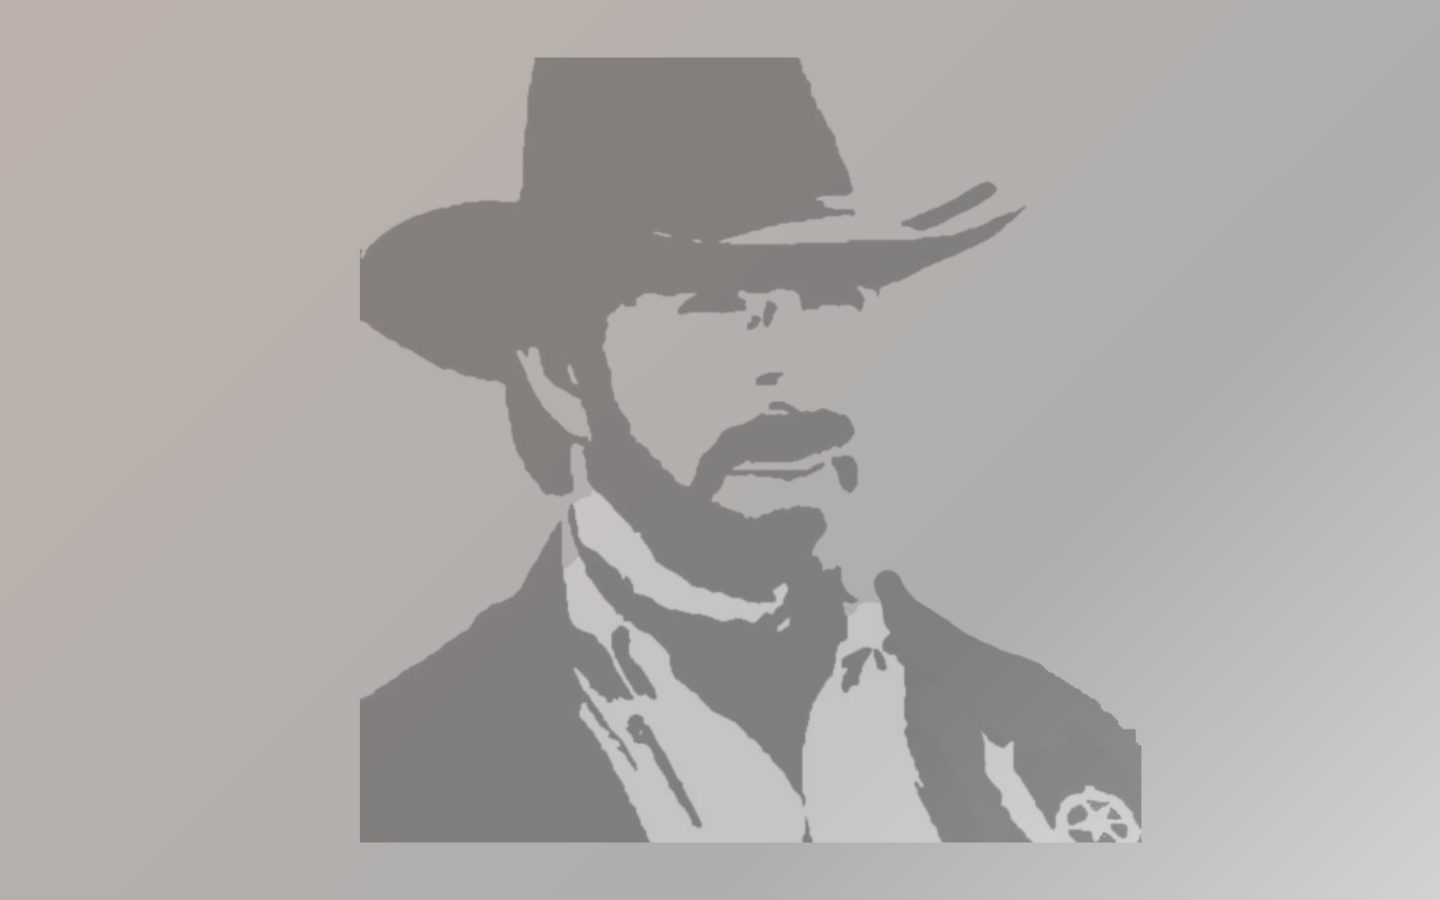
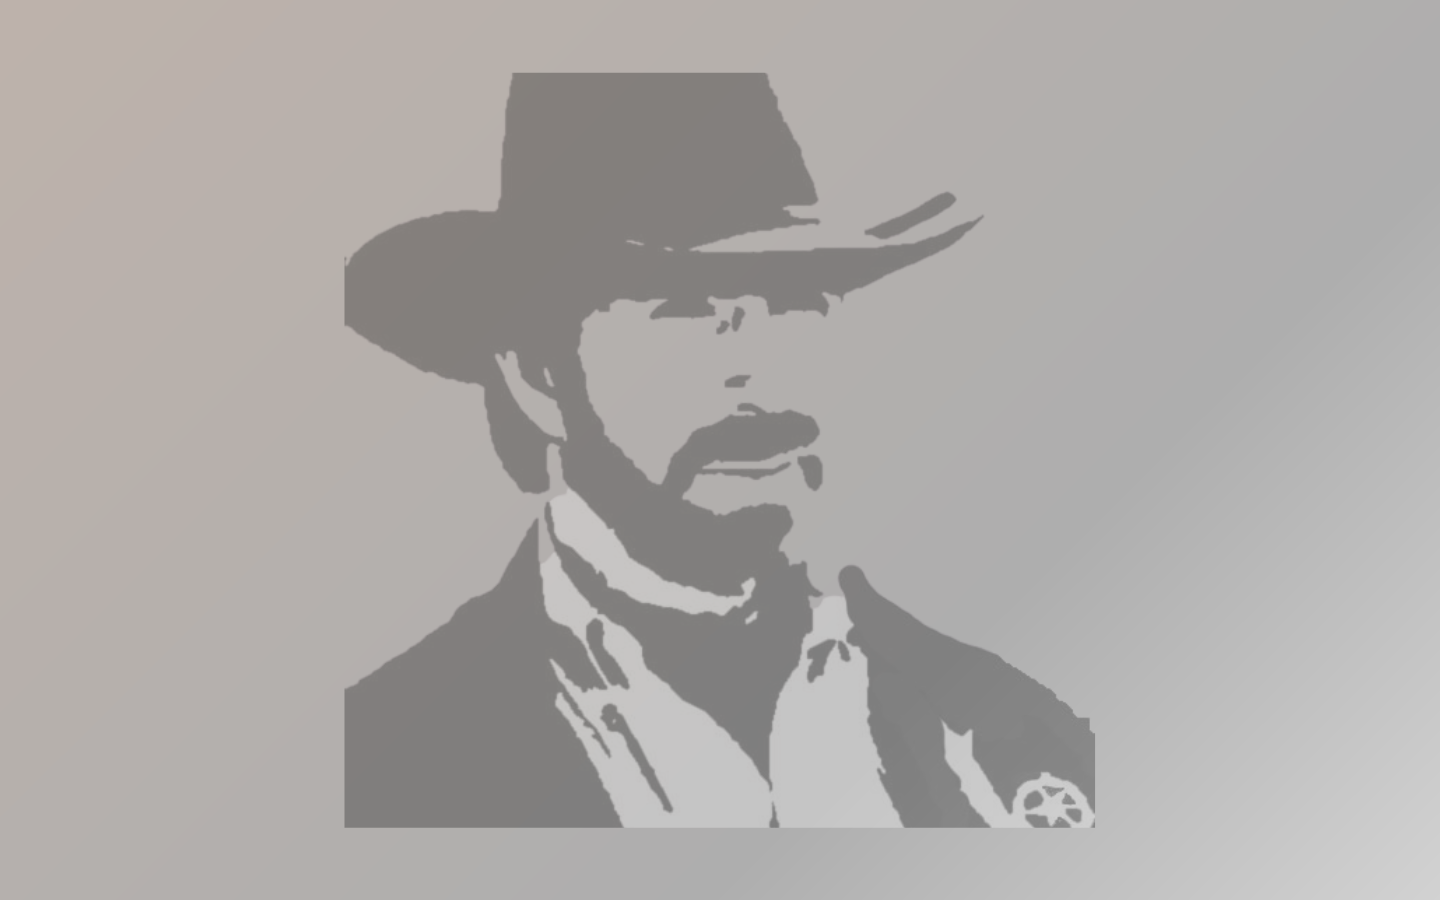
updated responsiveness + added input call

Changed region(s): [[0.2188, 0.0622, 0.8125, 0.9644], [0.6875, 0.7156, 0.7188, 0.7467]]

diff --git a/styles/styles.css b/styles/styles.css
@@ -22,6 +22,7 @@ body {
     margin-top: 1%;
     background: url(images/chuckbackground.png);
     background-size: cover;
+    background-position: center center;
 
 }
 
@@ -30,6 +31,7 @@ h1 {
     color: var(--branding-color);
     margin-left: -5%;
     text-align: center;
+  
 
 }
 h5{
@@ -58,7 +60,7 @@ h5{
 }
 
 #main-heading{
-    padding-top: 25px;
+   margin-left: 5%;
  }
  
  #meetTheRangers-btn {
@@ -114,7 +116,6 @@ h5{
 .fixed-bottom{
     background-color: var(--branding-color);
     color: var(--main-color);
-    height: 7%; 
 }
 
 .fixed-bottom i{
@@ -122,8 +123,12 @@ h5{
 }
 
 .input-group{
-    width: 22%;
-    
+    min-width: 10%;
+    flex-wrap: none !important;
+}
+.input-open{
+    margin-inline-start: 23%;
+    margin-inline-end: 23%;
 }
 
 .kick-image{
@@ -167,8 +172,8 @@ h5{
     flex-direction: column;
 }
 
-.navbar{
-   align-items: center;
+.navbar-nav{
+   justify-content: center;
    display: flex;   
 }
 
@@ -238,7 +243,7 @@ h5{
     z-index: 1;
     top: 0;
     left: 0;
-    background-color: #111;
+    background-color:#111;
     overflow-x: hidden;
     transition: 0.5s;
     padding-top: 60px;
@@ -247,13 +252,13 @@ h5{
   }
 
   .sidebarOpen{
-    width: 260px;
+    width: 200px;
   }
   
   .sidebar p {
     padding: 8px 8px 8px 32px;
     text-decoration: none;
-    font-size: 25px;
+    font-size: 20px;
     color: #818181;
     display: block;
     transition: 0.3s;
@@ -274,18 +279,7 @@ h5{
 
   }
   
-  .openbtn {
-    font-size: 20px;
-    cursor: pointer;
-    background-color: #111;
-    color: white;
-    padding: 10px 15px;
-    border: none;
-  }
-  
-  .openbtn:hover {
-    background-color: #444;
-  }
+ 
   /* ==================================================================================== */
  
   /* Jokes styling */
@@ -295,25 +289,77 @@ h5{
     justify-content: center;
     flex-wrap: wrap;
     margin-inline-start: 10%;
-    margin-top: 5%;
     width: 80%;
+    height: 100%;
     font: var(--body-text);
-    font-size: 2.5rem;
+    font-size: 2rem;
     color: var(--text-color);
     text-shadow: 1px 0 0 #fff, 0 -1px 0 #fff, 0 1px 0 #fff, -1px 0 0 #fff;
   }
+
+  .jokes-open{
+
+    margin-inline-start: 23%;
+    width: 50%;
+     
+  }
+  /* .jokesAnimate{
+    animation: fadeIn 5s;
+    -webkit-animation: fadeIn 5s;
+    -moz-animation: fadeIn 5s;
+    -o-animation: fadeIn 5s;
+    -ms-animation: fadeIn 5s;
+  }
+
+  @keyframes fadeIn {
+    0% { opacity: 0; }
+    100% { opacity: 1; }
+  }
+  
+  @-moz-keyframes fadeIn {
+    0% { opacity: 0; }
+    100% { opacity: 1; }
+  }
+  
+  @-webkit-keyframes fadeIn {
+    0% { opacity: 0; }
+    100% { opacity: 1; }
+  }
+  
+  @-o-keyframes fadeIn {
+    0% { opacity: 0; }
+    100% { opacity: 1; }
+  }
+  
+  @-ms-keyframes fadeIn {
+    0% { opacity: 0; }
+    100% { opacity: 1; }
+  } */
 
   @media (max-width: 900px){ 
     /* //tablet size screens */
     .jokes{
         font-size: 1.5rem;
+        text-align: center;
     }
+    .sidebarOpen{
+        width: 130px;
+    }
+    
+      
+  .sidebar p, .closebtn{
+    font-size: 16px;
+    padding: 4px 4px 4px 16px;
+  }
   }
   @media (max-width: 500px){
      /* //mobile screens */
     .jokes{
-        font-size: 1.5rem;
-        margin-top: 15%;
+        font-size: 1.3rem;
+       
+    }
+    .sidebarOpen{
+        width: 90px;
     }
   }
 

diff --git a/index.html b/index.html
@@ -25,15 +25,25 @@
       src="https://kit.fontawesome.com/ba09da393d.js"
       crossorigin="anonymous"
     ></script>
-    <script src="https://ajax.googleapis.com/ajax/libs/jquery/3.6.3/jquery.min.js"></script>
-    <script src="js/index.js"></script>
-    <script src="js/api.js"></script>
+  
+   
   </head>
 
   <body>
     <!-- Nav -->
+    
+    <div class="container-fluid">
+      <div id="main-heading">
+        <h1>
+          Chuck Norris<br />
+          Mythos
+        </h1>
+      </div>
+      </div>
     <nav class="navbar navbar-expand-lg">
-      <div class="container-fluid">
+     
+       <div class="container-fluid">
+
         <button
           class="navbar-toggler"
           type="button"
@@ -49,7 +59,7 @@
           class="collapse navbar-collapse justify-content-center"
           id="navbarNav"
         >
-          <ul class="navbar-nav">
+          <ul class="navbar-nav mb-3">
             <li class="nav-item">
               <a class="nav-link nav-link-category">Categories</a>
             </li>
@@ -74,36 +84,30 @@
     </nav>
 
     <!-- Searchbar -->
-    <div class="container-fluid search">
+    <div class="container search">
       <div class="input-group mb-3">
         <input
           type="text"
           class="form-control"
           placeholder="Search Chuck Norris Mythos"
-          aria-label="Recipient's username"
           aria-describedby="basic-addon2"
         />
         <div class="input-group-append">
-          <button class="btn-outline surprise-btn" type="button">Search</button>
+          <button class="btn-outline surprise-btn search" onclick="search(queryUrl)" type="button">Search</button>
         </div>
       </div>
     </div>
     <!-- Main -->
     <div class="container">
-      <div id="main-heading">
-        <h1>
-          Chuck Norris<br />
-          Mythos
-        </h1>
-      </div>
+      
       <!-- Joke section -->
-      <div class="jokes"></div>
+      <div id="jokes" class="jokes"></div>
     </div>
 
     <!-- Categories Sidebar -->
     <div id="mySidebar" class="sidebar">
       <div class="category-btn">
-        <p>Categories</p>
+        <p></p>
         <p class="closebtn">X</p>
       </div>
     </div>
@@ -220,7 +224,7 @@
         <div class="container-fluid fixed-bottom">
           <ul
             class="nav col-md-12 justify-content-center list-unstyled"
-            style="padding-top: 10px"
+            style="padding-top: 10px; padding-bottom: 5px;"
           >
             <li class="ms-3">
               <a
@@ -244,6 +248,9 @@
       </footer>
     </div>
     <!-- Javascript -->
+    <script src="https://ajax.googleapis.com/ajax/libs/jquery/3.6.3/jquery.min.js"></script>
+    <script src="js/api.js"></script>
+    <script src="js/index.js"></script>
     <script
       src="https://cdn.jsdelivr.net/npm/bootstrap@5.2.3/dist/js/bootstrap.bundle.min.js"
       integrity="sha384-kenU1KFdBIe4zVF0s0G1M5b4hcpxyD9F7jL+jjXkk+Q2h455rYXK/7HAuoJl+0I4"

diff --git a/js/api.js b/js/api.js
@@ -86,33 +86,27 @@ async function getRandom(url) {
   const response = await fetch("https://api.chucknorris.io/jokes/random");
   // Store data in form of JSON
   let joke = await response.json();
+
   // Call render function
   showJoke(joke);
 }
 
-
 // Display joke on screen
 function showJoke(joke) {
-  // Access value in joke object 
-  let jokeBox =  document.querySelector(".jokes");
+  // Access value in joke object
+  let jokeBox = document.querySelector(".jokes");
   let jokes = `<p class="jokeText">${joke.value}</p`;
- jokeBox.innerHTML = jokes;
+  jokeBox.innerHTML = jokes;
 
-// showContentAfter1Second();
+  // showContentAfter1Second();
 }
-  // animation
+// animation
 // function showContentAfter1Second(){
 //   setTimeout(() => {
 //     let jokeText =  document.querySelector(".jokes");
 //  jokeText.style.top = 15;
 // }, 1000);
 // }
-
-
-
-
-  
-
 
 //Listener for the 'R' Key up event to show new joke in same category
 document.addEventListener("keyup", (event) => {
@@ -122,3 +116,23 @@ document.addEventListener("keyup", (event) => {
     }
   }
 });
+
+// Input string query
+
+const queryUrl = "https://api.chucknorris.io/jokes/search?query={query}";
+
+
+async function search() {
+  let index =0;
+  let input = document.querySelector(".form-control").value;
+  let results = await fetch(
+    `https://api.chucknorris.io/jokes/search?query=${input}`
+  );
+  let searchedJoke = await results.json();
+
+
+  //  Writing to console
+  console.log(searchedJoke);
+
+  }
+  

diff --git a/js/index.js b/js/index.js
@@ -6,14 +6,17 @@ $(document).ready(function () {
 
   $(".nav-link-category").click(function () {
     $("#mySidebar").toggleClass("sidebarOpen");
+    $("#jokes").toggleClass("jokes-open");
+    $(".input-group").toggleClass("input-open");
   });
 
   $(".closebtn").click(function () {
     $("#mySidebar").toggleClass("sidebarOpen");
+    $("#jokes").toggleClass("jokes-open");
+    $(".input-group").toggleClass("input-open");
+   
   });
-  $(".category-btn").click(function () {
-    $("#mySidebar").removeClass("sidebarOpen");
-  });
+  
   $(".surprise-btn").click(function () {
     $(".jokes").fadeIn("slow", function () {});
   });
